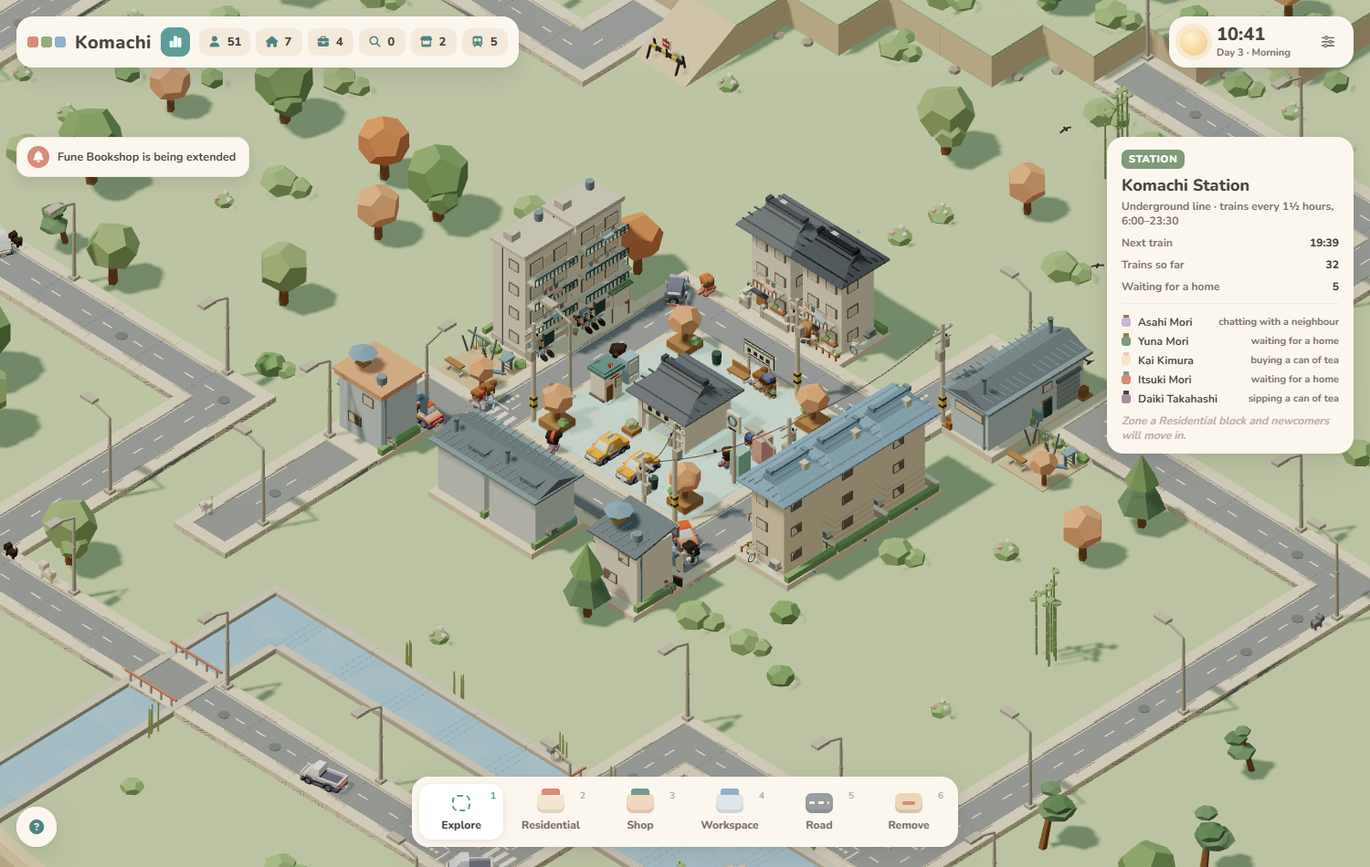
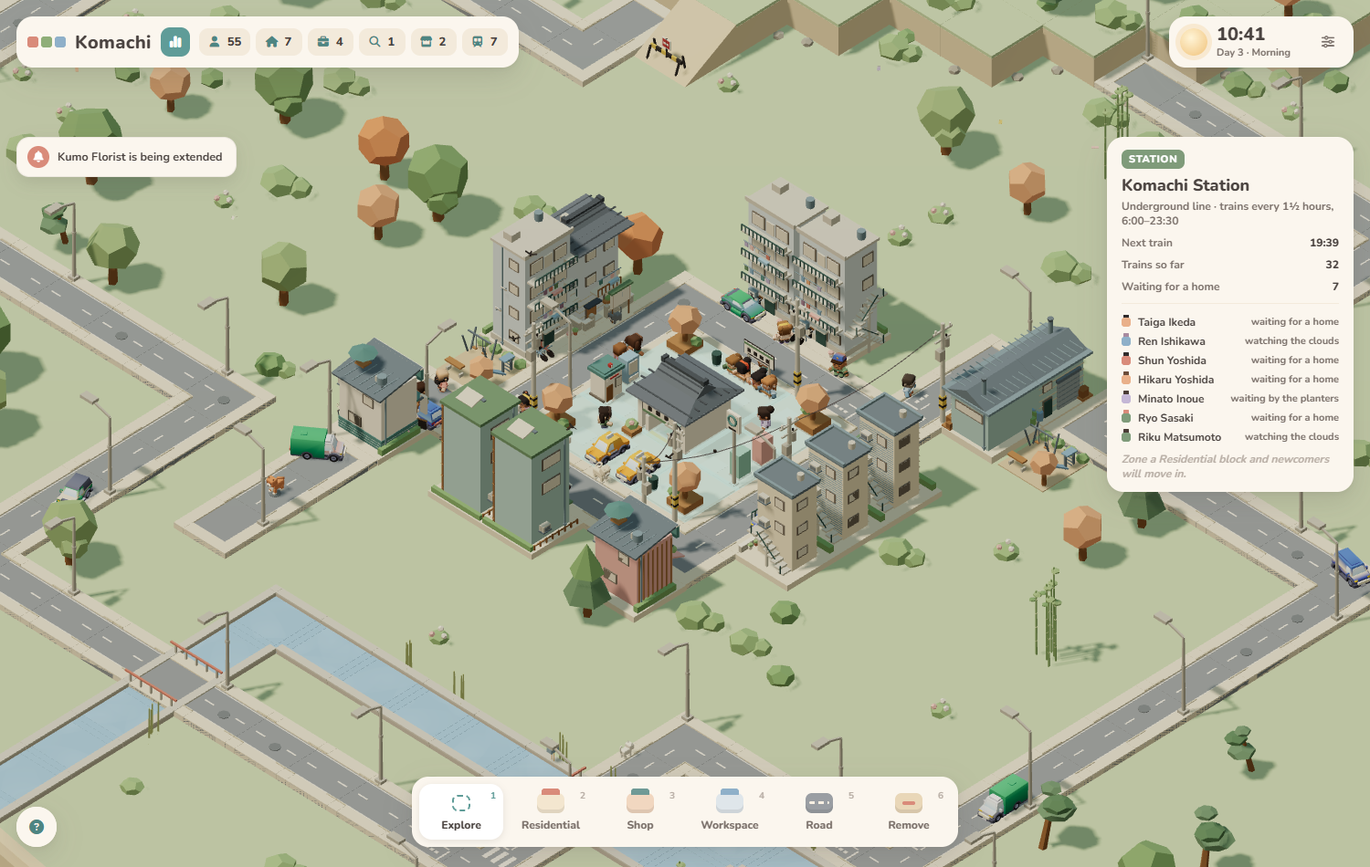
Phase 4.95: building variety, Remove tool drag and highlight, roadmap notes
- Detached homes in three styles from the seed (cottage, machiya, modern box); shops gain wall
  finishes, awning shapes, hanging signs and shutters; offices gain glass, punched and louvred
  facades; dishes and cladding from the seed; all styles keep the block's pastel palette
- Remove tool highlights street cells and clears a run by dragging; traffic leaves or reroutes
  when a street is removed
- Roadmap: size tiers by drag length open Phase 5; Phase 4.95 recorded; 25 smoke checks

diff --git a/src/buildings.js b/src/buildings.js
@@ -3,7 +3,9 @@ import * as THREE from 'three';
 import { PAL } from './palette.js';
 import { cx, cz, townGroup, disposeGroup } from './scene.js';
 import { box, prism, blob, cyl, colorize, mergeMesh, makeGlow } from './geometry.js';
-import { K, acUnit, pipe, balcony, extStairs, fence, pots, bicycle, bikeRack, signBoard, plainAwning, stripedAwning, windowPane, door, kawaraRoof, blockWall, genkan, tateKanban, noren, chochin, laundry } from './kit.js';
+import { K, acUnit, pipe, balcony, extStairs, fence, pots, bicycle, bikeRack, signBoard, plainAwning, stripedAwning, windowPane, door, kawaraRoof, blockWall, genkan, tateKanban, noren, chochin, laundry, slatWall, tileBand, corrugated, boxCanopy, hangingSign, dish, latticeWindow, engawa, hisashi } from './kit.js';
+/** a second, third… independent value derived from a unit's seed, so details vary without correlating */
+const sub = (s, k) => { const v = Math.sin(s * 12.9898 + k * 78.233) * 43758.5453; return v - Math.floor(v); };
 import { DONE } from './world.js';
 
 let LG = [];   // laundry geometry for the unit being built (its own mesh, shown in the daytime; see rebuildUnitMesh)
@@ -32,10 +34,14 @@ function genResidential(b, u, g, wg) {
   const v = u.variant || 'detached';
   if (v === 'narrow') return genNarrowHouse(b, u, g, wg);
   if (v === 'apartment') return genApartment(b, u, g, wg);
+  const style = u.style = sub(u.seed, 1) < 0.5 ? 'cottage' : sub(u.seed, 1) < 0.75 ? 'machiya' : 'modern';   // three detached looks; the cottage stays the common one
+  if (style === 'machiya') return genMachiya(b, u, g, wg);
+  if (style === 'modern') return genModern(b, u, g, wg);
   const L = b.level, { w, d, H } = dims('res', L), y0 = 0.12, metal = b.roofStyle === 'metal', kawara = b.roofStyle === 'kawara';
   u.door = { x: -0.16, z: d / 2 + 0.02 };
   g.push(box(w, H, d, b.wall, 0, y0 + H / 2, 0));
   if (u.seed > 0.5) for (let k = 0; k < 4; k++) g.push(box(w + 0.01, 0.012, d + 0.01, K.siding, 0, y0 + 0.1 + k * 0.12, 0));
+  if (sub(u.seed, 5) > 0.6) dish(g, -w / 2 - 0.03, y0 + H - 0.12, 0.12, -Math.PI / 2);
   if (metal) {
     g.push(prism(w + 0.2, 0.22, d + 0.22, K.metal, 0, y0 + H - 0.01, 0)); g.push(box(w + 0.24, 0.04, d + 0.26, K.metal2, 0, y0 + H, 0));
     for (let k = 0; k < 5; k++) { const rz = -d / 2 + 0.05 + k * ((d - 0.1) / 4); g.push(box(w + 0.2, 0.012, 0.012, K.metal2, 0, y0 + H + 0.11 - Math.abs(rz) / (d / 2) * 0.1 + 0.005, rz)); }
@@ -57,6 +63,47 @@ function genResidential(b, u, g, wg) {
   if (u.seed > 0.55) bicycle(g, -0.4, 0.3, 0.1, K.bike[Math.floor(u.seed * 5) % 5]);
   if (u.seed > 0.75) g.push(box(0.05, 0.3, 0.05, PAL.lamp, 0.42, 0.27, 0.42));
 }
+/** machiya: a timber townhouse right on the street, slatted upper wall, lattice window, engawa step and a pent roof over the ground floor */
+function genMachiya(b, u, g, wg) {
+  const L = b.level, { w, d, H } = dims('res', L), y0 = 0.12, tile = b.roofStyle === 'kawara' ? (sub(u.seed, 2) > 0.5 ? PAL.kawara : PAL.kawara2) : b.roof;
+  u.door = { x: -0.18, z: d / 2 + 0.02 };
+  g.push(box(w, H, d, b.wall, 0, y0 + H / 2, 0));
+  slatWall(g, w, d, y0 + H - 0.2, y0 + H - 0.05, 'z', PAL.wood, 0.05);   // a slatted band under the eaves only; plaster below
+  for (const s of [-1, 1]) g.push(box(0.03, H - 0.02, 0.03, PAL.wood2, s * (w / 2 - 0.005), y0 + H / 2, d / 2 - 0.005));   // timber corner posts
+  kawaraRoof(g, w, d, H, y0, tile, false);
+  hisashi(g, w, d, y0 + 0.46, tile);
+  door(g, -0.18, y0, d / 2 + 0.005, 0.16, 0.3, PAL.wood2); genkan(g, -0.18, y0, d / 2 + 0.02, 0.2);
+  latticeWindow(g, wg, 0.16, y0 + 0.26, d / 2 + 0.005, 0.3, 0.2, 0, PAL.wood);
+  for (let f = 1; f < L; f++) { const y = y0 + f * 0.52 + 0.2; for (const x of [-0.18, 0.16]) { windowPane(g, wg, x, y, d / 2 + 0.005, 0.18, 0.16); g.push(box(0.22, 0.012, 0.03, PAL.wood2, x, y - 0.1, d / 2 + 0.02)); } }   // plain upper windows with a timber sill
+  if (L === 1) for (const x of [-0.2, 0.0, 0.2]) g.push(box(0.05, 0.1, 0.02, PAL.cream2, x, y0 + H - 0.14, d / 2 + 0.03));   // mushiko-mado slits under the eaves
+  for (let f = 0; f < L; f++) { const y = y0 + f * 0.52 + 0.3; windowPane(g, wg, 0.12, y, -d / 2 - 0.005, 0.16, 0.14, Math.PI); windowPane(g, wg, -w / 2 - 0.005, y, -0.1, 0.14, 0.14, -Math.PI / 2); }
+  engawa(g, w, d, y0);
+  acUnit(g, -w / 2 - 0.05, y0 + 0.2, -0.2, -Math.PI / 2); pipe(g, w / 2 + 0.02, y0, y0 + H - 0.05, -d / 2 + 0.05);
+  pots(g, 0.3, 0.44, 2); g.push(box(0.9, 0.12, 0.08, PAL.bush, 0, 0.18, -0.43));
+  if (sub(u.seed, 4) > 0.5) bicycle(g, -0.42, 0.28, 0.15, K.bike[Math.floor(u.seed * 5) % 5]);
+}
+/** a modern box: render with a darker volume, flat parapet roof, big corner window, balcony on the side the seed picks */
+function genModern(b, u, g, wg) {
+  const L = b.level, { w, d, H } = dims('res', L), y0 = 0.12, side = sub(u.seed, 2) > 0.5 ? 1 : -1, dark = sub(u.seed, 3) > 0.5 ? PAL.cream2 : PAL.concrete2, trim = b.roof;   // a second light volume; the block's roof colour as the accent
+  u.door = { x: -side * 0.2, z: d / 2 + 0.02 };
+  g.push(box(w, H, d, b.wall, 0, y0 + H / 2, 0));
+  g.push(box(w * 0.42, H + 0.04, d + 0.04, dark, side * w * 0.29, y0 + (H + 0.04) / 2, 0));   // the darker volume
+  g.push(box(w + 0.06, 0.05, d + 0.06, trim, 0, y0 + H + 0.025, 0)); g.push(box(w + 0.08, 0.06, 0.03, trim, 0, y0 + H + 0.06, d / 2 + 0.03));   // flat roof and parapet lip in the block's roof colour
+  door(g, -side * 0.2, y0, d / 2 + 0.005, 0.16, 0.3, PAL.wood, null); boxCanopy(g, -side * 0.2, y0 + 0.36, d / 2 + 0.01, 0.3, trim, 0.16); genkan(g, -side * 0.2, y0, d / 2 + 0.02, 0.2);
+  windowPane(g, wg, side * 0.17, y0 + 0.3, d / 2 + 0.005, 0.24, 0.3);                                     // tall ground-floor window
+  wg.push(box(0.03, 0.3, 0.2, PAL.window, side * (w / 2 + 0.005), y0 + 0.3, 0.2)); g.push(box(0.02, 0.34, 0.24, K.frame, side * (w / 2 + 0.005), y0 + 0.3, 0.2));   // wraps the corner
+  for (let f = 1; f < L; f++) {
+    const y = y0 + f * 0.52 + 0.28;
+    windowPane(g, wg, -side * 0.12, y, d / 2 + 0.005, 0.44, 0.2);
+    balcony(g, side * 0.2, y0 + f * 0.52 + 0.06, d / 2 + 0.08, 0.34, 0.16, K.rail); if (sub(u.seed, 6) > 0.4) laundry(LG, side * 0.2, y0 + f * 0.52 + 0.06, d / 2 + 0.16, 0.34, sub(u.seed, f));
+  }
+  for (let f = 0; f < L; f++) { const y = y0 + f * 0.52 + 0.3; windowPane(g, wg, 0.1, y, -d / 2 - 0.005, 0.3, 0.16, Math.PI); windowPane(g, wg, -side * (w / 2 + 0.005), y, -0.1, 0.16, 0.16, side > 0 ? -Math.PI / 2 : Math.PI / 2); }
+  acUnit(g, -side * (w / 2 + 0.05), y0 + 0.2, -0.2, -side * Math.PI / 2); pipe(g, side * (w / 2 + 0.02), y0, y0 + H, -d / 2 + 0.06);
+  if (sub(u.seed, 5) > 0.5) dish(g, -side * 0.2, y0 + H + 0.08, -0.2, 0.4);
+  fence(g, 0, 0.45, 0.9, true, K.metal2, 0.09); fence(g, side * 0.45, 0, 0.8, false, K.metal2, 0.09);
+  g.push(box(0.9, 0.1, 0.08, PAL.bush2, 0, 0.17, -0.43)); pots(g, side * 0.28, 0.4, 2);
+  if (sub(u.seed, 4) > 0.5) bicycle(g, -side * 0.4, 0.3, 0.1, K.bike[Math.floor(u.seed * 5) % 5]);
+}
 function genNarrowHouse(b, u, g, wg) {
   const L = b.level, floors = L === 3 ? 3 : 2, fh = 0.5, w = 0.46, d = 0.64, H = fh * floors + 0.06, y0 = 0.12;
   u.door = { x: -0.1, z: d / 2 + 0.02 };
@@ -73,6 +120,8 @@ function genNarrowHouse(b, u, g, wg) {
     acUnit(g, w / 2 + 0.05, y - 0.02, 0.15, Math.PI / 2);
   }
   if (L >= 2) extStairs(g, w / 2, d, 1, fh, y0);
+  if (sub(u.seed, 5) > 0.5) dish(g, -w / 2 - 0.03, y0 + H - 0.14, -0.1, -Math.PI / 2);
+  if (sub(u.seed, 6) > 0.5) corrugated(g, w, d, y0 + 0.08, y0 + H - 0.1, K.metal2);   // some narrow houses are clad in corrugated metal
   for (let f = 0; f < floors; f++) { const y = y0 + f * fh + 0.3; windowPane(g, wg, 0.05, y, -d / 2 - 0.005, 0.16, 0.14, Math.PI); if (f > 0) windowPane(g, wg, -w / 2 - 0.005, y, 0.05, 0.12, 0.14, -Math.PI / 2); }
   pipe(g, -w / 2 - 0.02, y0, y0 + H, 0.2);
   pots(g, 0.16, 0.42, 3); g.push(box(0.08, 0.12, 0.7, PAL.bush, -0.43, 0.18, -0.05));
@@ -99,6 +148,7 @@ function genApartment(b, u, g, wg) {
     windowPane(g, wg, w / 2 + 0.005, y, -0.12, 0.16, 0.18, Math.PI / 2);
   }
   extStairs(g, w / 2, d, Math.min(2, floors - 1), fh, y0);
+  if (sub(u.seed, 5) > 0.4) for (let k = 0; k < 2; k++) dish(g, -w / 2 - 0.03, y0 + fh * (k + 1) + 0.2, -0.16 + k * 0.1, -Math.PI / 2);   // dishes on the stair side
   for (let f = 0; f < floors; f++) { const y = y0 + f * fh + 0.3; for (const x of [-0.24, 0.24]) windowPane(g, wg, x, y, -d / 2 - 0.005, 0.16, 0.16, Math.PI); windowPane(g, wg, -w / 2 - 0.005, y, 0.1, 0.14, 0.16, -Math.PI / 2); }
   pipe(g, -w / 2 - 0.02, y0, y0 + H, -0.1);
   bikeRack(g, -0.3, 0.42, 3, 0, u.seed);
@@ -111,6 +161,10 @@ function genShop(b, u, g, wg) {
   const doorX = kind === 'konbini' ? 0.22 : kind === 'grocery' ? -0.2 : -0.24;
   u.door = { x: doorX, z: d / 2 + 0.02 };
   g.push(box(w, H, d, b.wall, 0, y0 + H / 2, 0));
+  const finish = u.finish = sub(u.seed, 2) < 0.34 ? 'timber' : sub(u.seed, 2) < 0.67 ? 'tile' : 'render', awnShape = sub(u.seed, 3);
+  if (finish === 'timber') slatWall(g, w, d, y0 + 0.08, y0 + H - 0.06, sub(u.seed, 4) > 0.5 ? 'x' : '-x', PAL.wood, 0.085);
+  else if (finish === 'tile') tileBand(g, w, d, y0, 0.22, b.roof);
+  const awn = (x, y, z, ww, c1, c2) => awnShape < 0.35 ? plainAwning(g, x, y, z, ww, c1) : awnShape < 0.7 ? stripedAwning(g, x, y, z, ww, c1, c2) : boxCanopy(g, x, y, z, ww, c1);   // cloth, striped cloth or a box canopy
   // three silhouettes by the block's roof style, so a shop street is not a row of identical boxes
   if (b.roofStyle === 'kawara') {   // a tiled gable, machiya-style, with a lattice band under the eaves
     kawaraRoof(g, w, d, H, y0, u.seed > 0.5 ? PAL.kawara : PAL.kawara2, false);
@@ -143,25 +197,25 @@ function genShop(b, u, g, wg) {
       for (const x of [0.28, 0.4]) g.push(cyl(0.04, 0.035, 0.12, PAL.wood2, x, y0 + 0.06, 0.42, 6));
       signBoard(g, wg, 0, y0 + H - 0.14, d / 2 + 0.02, 0.4, K.red, PAL.cream2, true);
     } else if (kind === 'grocery') {
-      stripedAwning(g, 0, y0 + 0.55, d / 2 + 0.02, w, PAL.roofSage, PAL.cream2);
+      awn(0, y0 + 0.55, d / 2 + 0.02, w, PAL.roofSage, PAL.cream2);
       for (let k = 0; k < 3; k++) { const x = 0.06 + k * 0.15; g.push(box(0.13, 0.08, 0.12, PAL.wood, x, y0 + 0.04, 0.42)); for (let m = 0; m < 3; m++) g.push(blob(0.03, [PAL.roofPeach, '#8fae78', K.red][(k + m) % 3], x - 0.04 + m * 0.04, y0 + 0.1, 0.42 + (m % 2) * 0.03, 0, 1)); }
       signBoard(g, wg, 0, y0 + H - 0.14, d / 2 + 0.02, 0.44, PAL.cream2, PAL.roofSage); tateKanban(g, wg, -w / 2 - 0.07, y0 + 0.55, d / 2 + 0.06, PAL.roofSage, PAL.cream2, false, 0.36);
     } else if (kind === 'florist') {
-      stripedAwning(g, 0, y0 + 0.55, d / 2 + 0.02, w, PAL.pink, PAL.cream2);
+      awn(0, y0 + 0.55, d / 2 + 0.02, w, PAL.pink, PAL.cream2);
       for (let k = 0; k < 3; k++) { const x = 0.08 + k * 0.14; g.push(cyl(0.05, 0.04, 0.12, K.metal2, x, y0 + 0.06, 0.42, 7)); g.push(blob(0.06, [PAL.flower, PAL.roofPeach, PAL.lilac][k], x, y0 + 0.16, 0.42, 0, 0.9)); }
       g.push(box(0.03, 0.03, 0.03, K.rail, -0.3, y0 + 0.75, d / 2 + 0.08)); g.push(blob(0.07, PAL.bush2, -0.3, y0 + 0.68, d / 2 + 0.08, 0, 0.9));
       signBoard(g, wg, 0, y0 + H - 0.14, d / 2 + 0.02, 0.4, PAL.cream2, PAL.pink);
     } else if (kind === 'bakery') {
-      stripedAwning(g, 0, y0 + 0.55, d / 2 + 0.02, w, PAL.roofRose, PAL.cream2);
+      awn(0, y0 + 0.55, d / 2 + 0.02, w, PAL.roofRose, PAL.cream2);
       signBoard(g, wg, 0, y0 + H - 0.14, d / 2 + 0.02, 0.4, PAL.roofPeach, PAL.cream2); g.push(blob(0.045, '#d9a066', 0.13, y0 + H - 0.14, d / 2 + 0.05, 0, 0.7));
       g.push(box(0.14, 0.1, 0.12, PAL.wood, 0.36, y0 + 0.05, 0.42)); g.push(blob(0.04, '#d9a066', 0.36, y0 + 0.12, 0.42, 0, 0.7));
     } else if (kind === 'books') {
-      stripedAwning(g, 0, y0 + 0.55, d / 2 + 0.02, w, PAL.roofBlue, PAL.cream2);
+      awn(0, y0 + 0.55, d / 2 + 0.02, w, PAL.roofBlue, PAL.cream2);
       for (let k = 0; k < 5; k++) g.push(box(0.05, 0.12 + (k % 2) * 0.03, 0.03, [PAL.roofRose, PAL.roofBlue, PAL.roofSage, PAL.roofPeach, PAL.lilac][k], -0.02 + k * 0.06, y0 + 0.22, d / 2 + 0.0));
       signBoard(g, wg, 0, y0 + H - 0.14, d / 2 + 0.02, 0.4, PAL.cream2, PAL.roofBlue); tateKanban(g, wg, -w / 2 - 0.07, y0 + 0.55, d / 2 + 0.06, PAL.roofBlue, PAL.cream2, false, 0.36);
       g.push(box(0.16, 0.12, 0.14, PAL.wood, 0.38, y0 + 0.06, 0.42)); for (let k = 0; k < 3; k++) g.push(box(0.14, 0.02, 0.1, [PAL.roofRose, PAL.cream2, PAL.roofBlue][k], 0.38, y0 + 0.13 + k * 0.02, 0.42));
     } else {   // café
-      stripedAwning(g, 0, y0 + 0.55, d / 2 + 0.02, w, a1, a2);
+      awn(0, y0 + 0.55, d / 2 + 0.02, w, a1, a2);
       if (u.seed > 0.5) noren(g, doorX, y0 + 0.36, d / 2 + 0.03, 0.2, a1, PAL.cream2);        // a kissaten hangs a noren
       tateKanban(g, wg, -w / 2 - 0.07, y0 + 0.55, d / 2 + 0.06, PAL.cream2, a1, false, 0.36);
       g.push(cyl(0.1, 0.1, 0.02, PAL.cream2, 0.32, y0 + 0.2, 0.4, 10)); g.push(cyl(0.015, 0.015, 0.2, K.metal, 0.32, y0 + 0.1, 0.4, 5)); g.push(cyl(0.06, 0.06, 0.015, K.metal, 0.32, y0 + 0.01, 0.4, 8));
@@ -181,6 +235,8 @@ function genShop(b, u, g, wg) {
   if (L >= 2) { g.push(cyl(0.07, 0.07, 0.14, K.metal2, -0.25, y0 + H + 0.2, -0.18, 8)); for (const [lx, lz] of [[-0.3, -0.23], [-0.2, -0.13]]) g.push(box(0.02, 0.1, 0.02, K.metal, lx, y0 + H + 0.08, lz)); }   // rooftop water tank
   if (L >= 3) { g.push(cyl(0.02, 0.02, 0.36, PAL.lamp, 0.18, y0 + H + 0.28, -0.1, 5)); g.push(cyl(0.001, 0.2, 0.09, a1, 0.18, y0 + H + 0.45, -0.1, 8)); g.push(box(0.16, 0.03, 0.16, PAL.wood, 0.18, y0 + H + 0.2, -0.1)); }
   if (u.seed > 0.55 && kind !== 'konbini') { g.push(box(0.14, 0.32, 0.12, u.seed > 0.75 ? PAL.pink : PAL.mint, w / 2 + 0.09, y0 + 0.16, -0.12)); wg.push(box(0.09, 0.14, 0.02, PAL.window, w / 2 + 0.09, y0 + 0.22, -0.055)); }
+  if (kind !== 'konbini' && kind !== 'ramen' && sub(u.seed, 5) > 0.5) hangingSign(g, wg, w / 2 - 0.02, y0 + 0.5, d / 2 + 0.02, a1, PAL.cream2, sub(u.seed, 6) > 0.5);   // a round sign off the front corner
+  if (L >= 2 && sub(u.seed, 7) > 0.5) for (const x of [-0.18, 0.18]) for (const s of [-1, 1]) g.push(box(0.05, 0.2, 0.015, K.shutter, x + s * 0.12, y0 + 0.9, d / 2 + 0.012));   // shutters beside the upstairs windows
   windowPane(g, wg, 0.1, y0 + 0.36, -d / 2 - 0.005, 0.2, 0.16, Math.PI); if (L >= 2) windowPane(g, wg, -0.15, y0 + 0.9, -d / 2 - 0.005, 0.16, 0.16, Math.PI);
   g.push(box(0.08, 0.12, 0.72, PAL.bush, -0.43, 0.18, -0.04));
 }
@@ -191,18 +247,22 @@ function genWork(b, u, g, wg) {
   if (kind === 'workshop') return genWorkshop(b, u, g, wg);
   if (kind === 'studio') return genStudio(b, u, g, wg);
   const L = b.level, { w, d, H } = dims('work', L), y0 = 0.12, floors = L + 1;
+  const facade = u.facade = sub(u.seed, 2) < 0.34 ? 'glass' : sub(u.seed, 2) < 0.67 ? 'punched' : 'louvre';   // three office faces
   u.door = { x: 0, z: d / 2 + 0.02 };
   g.push(box(w, H, d, b.wall, 0, y0 + H / 2, 0));
   g.push(box(w + 0.04, 0.12, d + 0.04, PAL.concrete, 0, y0 + 0.06, 0));
   g.push(box(w + 0.06, 0.07, d + 0.06, b.roof, 0, y0 + H + 0.03, 0));
-  for (let f = 0; f < floors; f++) {
+  if (facade === 'punched') { for (let f = 0; f < floors; f++) { const y = y0 + 0.42 + f * ((H - 0.5) / Math.max(1, floors - 1)) * (floors > 1 ? 1 : 0) + (floors === 1 ? 0.1 : 0); if (f === 0) { wg.push(box(0.2, 0.3, 0.03, PAL.window, 0, y0 + 0.27, d / 2 + 0.015)); g.push(box(0.34, 0.04, 0.18, b.roof, 0, y0 + 0.46, d / 2 + 0.09)); } for (const x of (f === 0 ? [-0.28, 0.28] : [-0.26, 0, 0.26])) windowPane(g, wg, x, y, d / 2 + 0.005, 0.14, 0.2); for (const z of [-0.2, 0.05]) windowPane(g, wg, w / 2 + 0.005, y, z, 0.14, 0.2, Math.PI / 2); g.push(box(w + 0.03, 0.03, d + 0.03, PAL.cream2, 0, y - 0.15, 0)); } }   // punched windows in a solid wall, a string course per floor
+  else for (let f = 0; f < floors; f++) {
     const y = y0 + 0.42 + f * ((H - 0.5) / Math.max(1, floors - 1)) * (floors > 1 ? 1 : 0) + (floors === 1 ? 0.1 : 0);
+    if (facade === 'louvre') for (const fy of [-0.07, 0, 0.07]) { g.push(box(0.64, 0.012, 0.06, K.metal2, 0, y + fy, d / 2 + 0.05)); g.push(box(0.06, 0.012, 0.54, K.metal2, w / 2 + 0.05, y + fy, 0)); }   // sun fins over the glass bands
     if (f === 0) { wg.push(box(0.2, 0.3, 0.03, PAL.window, 0, y0 + 0.27, d / 2 + 0.015)); g.push(box(0.34, 0.04, 0.18, b.roof, 0, y0 + 0.46, d / 2 + 0.09)); for (const x of [-0.16, 0.16]) g.push(box(0.03, 0.34, 0.03, K.mullion, x, y0 + 0.29, d / 2 + 0.06)); wg.push(box(0.03, 0.22, 0.5, PAL.window, w / 2 + 0.015, y0 + 0.3, 0)); continue; }
     wg.push(box(0.6, 0.22, 0.03, PAL.window, 0, y, d / 2 + 0.015)); for (const x of [-0.2, 0, 0.2]) g.push(box(0.025, 0.22, 0.04, K.mullion, x, y, d / 2 + 0.02));
     wg.push(box(0.03, 0.22, 0.5, PAL.window, w / 2 + 0.015, y, 0)); for (const z of [-0.17, 0, 0.17]) g.push(box(0.04, 0.22, 0.025, K.mullion, w / 2 + 0.02, y, z));
     g.push(box(w + 0.03, 0.04, d + 0.03, PAL.concrete, 0, y - 0.15, 0));
   }
   g.push(box(0.16, 0.12, 0.16, PAL.concrete, -0.22, y0 + H + 0.12, -0.15)); g.push(box(0.12, 0.1, 0.16, PAL.concrete, 0.2, y0 + H + 0.11, -0.18));
+  if (sub(u.seed, 4) > 0.5) dish(g, 0.3, y0 + H + 0.1, -0.05, 0.6);
   acUnit(g, -w / 2 - 0.05, y0 + 0.3, 0.1, -Math.PI / 2); pipe(g, -w / 2 - 0.02, y0, y0 + H, -0.25);
   if (L >= 2) g.push(box(0.3, 0.16, 0.05, PAL.cream2, 0.1, y0 + H + 0.14, 0.2));
   if (L >= 3) { g.push(cyl(0.012, 0.012, 0.5, PAL.lamp, 0.3, y0 + H + 0.3, 0.1, 4)); g.push(blob(0.035, PAL.roofRose, 0.3, y0 + H + 0.56, 0.1, 0, 1)); }

diff --git a/src/kit.js b/src/kit.js
@@ -182,3 +182,52 @@ export function laundry(lg, x, y, z, w, seed) {
   for (let k = 0; k < n; k++) { if ((seed * 13 + k * 2.3) % 1 < 0.3) continue; const col = SHIRTS[(k + Math.floor(seed * 9)) % SHIRTS.length]; lg.push(box(0.055, 0.085 + (k % 2) * 0.02, 0.012, col, x - w / 2 + 0.05 + k * ((w - 0.1) / Math.max(1, n - 1)), y + 0.28, z)); }
   if (seed > 0.35) lg.push(box(0.17, 0.05, 0.05, seed > 0.7 ? PAL.pink : PAL.sky2, x + w / 2 - 0.13, y + 0.135, z));   // futon over the rail
 }
+
+// ── building variety (Phase 4.95): wall finishes and small props, all in the unit's local space ──
+/** vertical timber slats on a face: `face` = 'z' (front, at +d/2), '-z' (back), 'x' or '-x' (sides) */
+export function slatWall(g, w, d, y0, y1, face, color = PAL.wood2, gap = 0.055) {
+  const side = face.replace('-', ''), sgn = face.startsWith('-') ? -1 : 1, len = side === 'z' ? w : d, h = y1 - y0;
+  for (let t = -len / 2 + 0.03; t < len / 2 - 0.02; t += gap) {
+    if (side === 'z') g.push(box(0.022, h, 0.014, color, t, (y0 + y1) / 2, sgn * (d / 2 + 0.008)));
+    else g.push(box(0.014, h, 0.022, color, sgn * (w / 2 + 0.008), (y0 + y1) / 2, t));
+  }
+}
+/** a glazed tile band round the base (sides and back), with grout lines */
+export function tileBand(g, w, d, y0, h, color, grout = PAL.cream2) {
+  g.push(box(0.012, h, d + 0.02, color, w / 2 + 0.006, y0 + h / 2, 0)); g.push(box(0.012, h, d + 0.02, color, -w / 2 - 0.006, y0 + h / 2, 0)); g.push(box(w + 0.02, h, 0.012, color, 0, y0 + h / 2, -d / 2 - 0.006));
+  for (let y = y0 + 0.05; y < y0 + h - 0.02; y += 0.05) { g.push(box(0.014, 0.004, d + 0.02, grout, w / 2 + 0.006, y, 0)); g.push(box(0.014, 0.004, d + 0.02, grout, -w / 2 - 0.006, y, 0)); g.push(box(w + 0.02, 0.004, 0.014, grout, 0, y, -d / 2 - 0.006)); }
+}
+/** horizontal corrugation lines on both side faces */
+export function corrugated(g, w, d, y0, y1, color = K.metal2) { for (let y = y0 + 0.04; y < y1 - 0.02; y += 0.045) for (const s of [-1, 1]) g.push(box(0.01, 0.008, d - 0.02, color, s * (w / 2 + 0.006), y, 0)); }
+/** a flat box canopy over the front, on two slim brackets */
+export function boxCanopy(g, x, y, z, w, color, depth = 0.22) {
+  g.push(box(w, 0.035, depth, color, x, y, z + depth / 2)); g.push(box(w + 0.02, 0.05, 0.02, PAL.cream2, x, y, z + depth));
+  for (const s of [-1, 1]) g.push(box(0.012, 0.012, depth - 0.02, K.metal, x + s * (w / 2 - 0.03), y + 0.03, z + depth / 2 - 0.01));
+}
+/** a small round sign hung off a bracket at a front corner */
+export function hangingSign(g, wg, x, y, z, color, accent, glow = false) {
+  g.push(box(0.16, 0.012, 0.012, K.metal, x, y + 0.11, z + 0.08)); g.push(box(0.012, 0.11, 0.012, K.metal, x, y + 0.06, z + 0.02));
+  const disc = new THREE.CylinderGeometry(0.075, 0.075, 0.018, 12); disc.rotateZ(Math.PI / 2); disc.translate(x + 0.06, y, z + 0.1); g.push(colorize(disc, color));
+  const ring = new THREE.CylinderGeometry(0.05, 0.05, 0.022, 12); ring.rotateZ(Math.PI / 2); ring.translate(x + 0.06, y, z + 0.1); (glow ? wg : g).push(colorize(ring, glow ? PAL.window : accent));
+}
+/** a satellite dish on a wall bracket, facing local +z before rotation */
+export function dish(g, x, y, z, ry = 0) {
+  const parts = [box(0.02, 0.02, 0.06, K.metal, 0, 0, -0.03)];
+  const d = new THREE.CylinderGeometry(0.06, 0.05, 0.012, 10); d.rotateX(-1.1); d.translate(0, 0.02, 0.01); parts.push(colorize(d, PAL.cream2));
+  parts.push(box(0.008, 0.008, 0.05, K.metal, 0, 0.03, 0.03));
+  for (const p of parts) { p.rotateY(ry); p.translate(x, y, z); g.push(p); }
+}
+/** koshi: a wooden lattice over a window */
+export function latticeWindow(g, wg, x, y, z, w, h, ry = 0, color = PAL.wood2) {
+  windowPane(g, wg, x, y, z, w, h, ry);
+  const n = Math.max(3, Math.round(w / 0.05));
+  for (let k = 0; k <= n; k++) g.push(box(0.012, h, 0.012, color, x - w / 2 + (w * k) / n, y, z + 0.022, ry));
+  g.push(box(w + 0.02, 0.012, 0.012, color, x, y + h * 0.2, z + 0.024, ry));
+}
+/** engawa: a wooden veranda step along the front, with a low rail at one end */
+export function engawa(g, w, d, y0, color = PAL.wood) {
+  g.push(box(w - 0.04, 0.04, 0.16, color, 0, y0 + 0.02, d / 2 + 0.1)); for (let k = 0; k < 4; k++) g.push(box(w - 0.06, 0.004, 0.006, PAL.wood2, 0, y0 + 0.042, d / 2 + 0.04 + k * 0.04));
+  g.push(box(0.02, 0.1, 0.16, color, w / 2 - 0.04, y0 + 0.09, d / 2 + 0.1)); g.push(box(0.02, 0.012, 0.16, color, w / 2 - 0.04, y0 + 0.15, d / 2 + 0.1));
+}
+/** hisashi: a shallow pent roof over the ground floor front */
+export function hisashi(g, w, d, y, color) { const a = new THREE.BoxGeometry(w + 0.12, 0.025, 0.24); a.rotateX(0.32); a.translate(0, y, d / 2 + 0.1); g.push(colorize(a, color)); for (const s of [-1, 1]) g.push(box(0.02, 0.02, 0.2, PAL.wood2, s * (w / 2 - 0.05), y - 0.05, d / 2 + 0.1)); }

diff --git a/CLAUDE.md b/CLAUDE.md
@@ -11,7 +11,7 @@ The player zones blocks; the simulation does the rest. Design rule for every fea
 npm run dev        # Vite dev server
 npm run build      # required before npm test
 npm run lint       # ESLint, must be clean (no-undef is an error)
-npm test           # scripts/smoke.mjs: headless Chromium over dist/, 24 checks + screenshots in scripts/out/
+npm test           # scripts/smoke.mjs: headless Chromium over dist/, 25 checks + screenshots in scripts/out/
 ```
 
 Always run lint → build → test after changes, then eyeball `scripts/out/day.png` and `night.png`.
@@ -51,6 +51,8 @@ residents, trains), `construction.js` (crews, trucks), `daynight.js`, `ambient.j
   relative path, so the loader's URL modifier points them at the bundled copy.
 - Vehicles are Kenney Car Kit models via `src/vehicles.js` (same atlas-bake and repaint idea; `attachVehicle`
   fills a +z-forward group; box cars are the fallback). Kinds: kei, hatch, suv, van, truck, taxi, delivery, garbage.
+- Detached homes pick a style from the seed (`u.style`: cottage | machiya | modern), shops a finish (`u.finish`), offices a
+  facade (`u.facade`); `sub(seed, k)` in buildings.js gives independent per-unit values for details.
 - Roof styles: `kawara` (grey tiles, irimoya from level 2), `tile`, `metal`; the kit's Japanese parts are
   `kawaraRoof, blockWall, genkan, tateKanban, noren, chochin, laundry` (laundry goes to the `LG` list, its own mesh).
 - Cells: `water | hill | empty | road | lot`; streets first: the player draws roads (`drawn`, permanent) and
@@ -114,7 +116,8 @@ Phases 4 and 4.5 shipped 2026-09-17 (commuters, parked cars and bikes, taxis, tr
 canal with bridges, coast road). Phase 4.8 (Japanese identity pass) shipped the same day: roof styles are now `kawara | tile | metal`,
 `u.laundry` is a per-unit mesh toggled by the hour in daynight.js, `parkCells` in world.js lists pocket
 parks. Phase 4.9 shipped 2026-09-21 (streets first: Road tool, zoning beside streets, signals rule, walkers at lights; saves v2).
-Next is Phase 5 (economy, dynamic businesses, hill plot market, car ferry) when the user says go. Cells now also carry `canal | bridge | coast` flags; canal cells are type `canal`. Deliver in the same style: build, verify with screenshots and headless traces (see the
+Phase 4.95 (building variety) shipped 2026-09-21. Next is Phase 5 (economy, size tiers, hill plot
+market, car ferry) when the user says go. Cells now also carry `canal | bridge | coast` flags; canal cells are type `canal`. Deliver in the same style: build, verify with screenshots and headless traces (see the
 scratch scripts pattern in scripts/smoke.mjs), update CHANGELOG (Unreleased), README, docs, ROADMAP.
 Any change to what a resident or block carries must be mirrored in `src/save.js` (bump `v` if the
 shape changes incompatibly).
@@ -136,7 +139,9 @@ world, a town chronicle, residents who remember, visible growth, small ceremonie
        details (tomare marks, post box, kōban, pole transformers), pines and bamboo, laundry on balconies
    4.9 ✅ Streets first: the player draws streets (Road tool, key 5) and zones beside them, lights only at
        through-street crossings, walkers wait at the red
-5. Economy and dynamic business selection (incl. hill plot market: villas, tea house, later ryokan; car ferry at
+   4.95 ✅ Building variety pass: three detached styles, shop finishes/awnings/signs, three office facades, props from the seed
+5. Economy and dynamic business selection (first: size tiers by drag length, 1/2/3 cells → house/apartments/manshon,
+   konbini/café/supermarket, studio/workshop/factory; then hill plot market: villas, tea house, later ryokan; car ferry at
    the pier so cars and vans arrive and leave by sea instead of spawning; taxis are island-based, delivered once)
    5.5 Civic zone: substation, water works, recycling centre (visible effects only, nothing gated)
 6. Weather, gentle events, festivals, tourism

diff --git a/docs/ROADMAP.md b/docs/ROADMAP.md
@@ -132,8 +132,35 @@ ever letting the town break.
   streets; the ring-road smoke checks were rewritten and two new ones cover the Road tool and lights
 - Done before Phase 5 so the ferry slipway, builders' yard and plot market build on the final road model
 
+## ✅ Phase 4.95 — Building variety pass
+
+Agreed and shipped 2026-09-21. Visual variety does not need the economy, and it is what the player sees first. Each zone
+gets several distinct generators per size, and every building varies its details from its seed.
+
+- ✅ **Several looks per zone**: detached homes are cottage, machiya or modern box (plus the narrow house and
+  apartments); shops keep their seven kinds and gain three wall finishes, three awning shapes and hanging
+  signs; offices come as glass, punched-window or louvred (plus workshop and studio)
+- ✅ **Details from the seed**: balcony side, corner windows, shutters, dishes, corrugated cladding, slats, tile
+  bands, sign positions, lattice windows, engawa steps
+- ✅ **Roofs multiply it**: with the kawara / tile / metal split, a home has 3 × 3 × 3 silhouettes before colours
+- Size-based generators (terrace pair, manshon, restaurant, supermarket, shotengai, factory, warehouse) wait
+  for Phase 5, where the size tiers give them their roles
+- Stays procedural in the current kit style; no building pack
+- Phase 5 then reuses these generators when its size tiers decide role and capacity
+
 ## ⬜ Phase 5 — Economy and dynamic businesses
 
+- **Size tiers by drag length** (agreed 2026-09-21, first item of the phase): the number of cells dragged decides
+  the building's shape and role, shown on the card before placing ("2 cells: café or restaurant").
+  Residential: 1 = detached or narrow two-storey house (1–2 households); 2 = low apartment block or a pair of
+  terrace houses (4–6); 3 = a three-storey manshon with lobby, bike shelter and rooftop tank (8–10, the only home
+  that can grow a fourth floor). Shop: 1 = konbini, bakery, florist, bookshop or ramen counter (quick visits);
+  2 = café, kissaten or family restaurant with outside seats, or grocery (people linger); 3 = small supermarket
+  or a covered shotengai arcade with three fronts under one canopy (draws people from further, the first
+  landmark). Workspace: 1 = studio, small office or clinic; 2 = workshop with a yard and roller shutter, or a
+  design office; 3 = small factory, warehouse by the coast road (fed by the ferry's cargo later) or office
+  block (most jobs). Kinds within a tier still vary by roof style and colour, but shape and scale are fixed
+  by the tier. These tiers are what the economy picks between when a business opens or closes
 - Gentle economy shown through behaviour: a shop with customers gets a new awning and stock, one
   without goes quiet, shutters early, and eventually changes what it sells
 - Shop kind chosen from what the neighbourhood lacks rather than at random

diff --git a/CHANGELOG.md b/CHANGELOG.md
@@ -10,6 +10,13 @@ Phases 4 and 4.5 plus the polish that went with them.
 
 ### Added
 
+- Phase 4.95, building variety. Detached homes come in three looks chosen from the seed: the cottage, a machiya
+  townhouse with slatted timber walls, a lattice window, an engawa step and a pent roof over the ground floor,
+  and a modern render box with a second light volume, a flat parapet roof in the block's roof colour, a corner window and a balcony on the side
+  the seed picks. Shops get a wall finish (timber slats, a glazed tile band or plain render), one of three awning
+  shapes (cloth, striped cloth or a box canopy), sometimes a round hanging sign at the corner and shutters
+  upstairs. Offices come with a glass, punched-window or louvred facade. Satellite dishes, corrugated cladding on
+  some narrow houses and other small props also follow the seed
 - Phase 4.9, streets first. Buildings no longer bring a square ring of road with them: the player draws streets
   with the new Road tool (key 5), dragging an L-shaped run over land on one level or straight across the canal
   for a bridge, and zones buildings beside them (only beside a street that reaches the station, so nobody is ever cut off). A building's door faces the street it was placed against, and
@@ -96,6 +103,10 @@ Phases 4 and 4.5 plus the polish that went with them.
 
 ### Changed
 
+- Roadmap: a Phase 4.95 building variety pass before the economy (several generators per size and zone,
+  details from the seed)
+- Roadmap: Phase 5 opens with size tiers by drag length, where 1, 2 or 3 cells decide a building's shape and
+  role (house, apartments, manshon; konbini, café, supermarket; studio, workshop, factory)
 - Roadmap: residents register at the town hall after moving in (Phase 5.5, kōban as the stand-in), and a list of
   hand props to model (can, bag, briefcase, umbrella, folder)
 - Shops come in three silhouettes by roof style: a tiled machiya gable with a lattice band, a mono-pitch metal

diff --git a/docs/ARCHITECTURE.md b/docs/ARCHITECTURE.md
@@ -144,7 +144,10 @@ detached / narrow / apartment) or the block's `kind` (shops: café, bakery, rame
 konbini, florist, books; workspaces: office, workshop, studio). Generators are built from the
 shared parts in `kit.js` and must set `u.door` so trips start and end at the right doorstep.
 Roof style (kawara, tile or metal) and wall colour are chosen per block; small details (bicycles,
-pots, signs) vary per unit from its seed. `kawaraRoof` builds the tiled roofs (courses, ridge cap,
+pots, signs) vary per unit from its seed; `sub(seed, k)` derives further independent values from it, which pick a
+detached home's style (cottage, machiya, modern), a shop's wall finish, awning shape and sign, and an office's
+facade (glass, punched, louvre). The kit's finishes are `slatWall`, `tileBand`, `corrugated`, `boxCanopy`,
+`hangingSign`, `dish`, `latticeWindow`, `engawa` and `hisashi`. `kawaraRoof` builds the tiled roofs (courses, ridge cap,
 optional irimoya skirt); `blockWall`, `genkan`, `tateKanban`, `noren`, `chochin` and `laundry` are
 the Japanese identity parts. Laundry geometry is merged into its own mesh (`u.laundry`) so
 `daynight.js` can show it only between 08:00 and 17:00. Street furniture (stop marks, kerb lines,

diff --git a/README.md b/README.md
@@ -80,7 +80,7 @@ Some things worth knowing:
   signboards, noren and red chōchin lanterns on the shop street, a glowing konbini, painted stop marks
   and white kerb lines on the streets, a red post box, a kōban by the station, a hokora on a quiet bend,
   pruned pines, bamboo groves and pocket parks with swings.
-- **Buildings vary.** Homes come as detached houses (kawara, tile or metal roofs), narrow two-storey
+- **Buildings vary.** Detached homes are cottages, timber machiya townhouses or modern render boxes; homes also come as narrow two-storey
   houses with exterior stairs, or small apartment blocks with balconies. Shops take one of three shapes, a
   tiled machiya gable, a mono-pitch metal roof with a tall fascia, or a flat roof with a parapet, and become cafés,
   bakeries, ramen shops, groceries, convenience stores, florists or bookshops. Workspaces are
